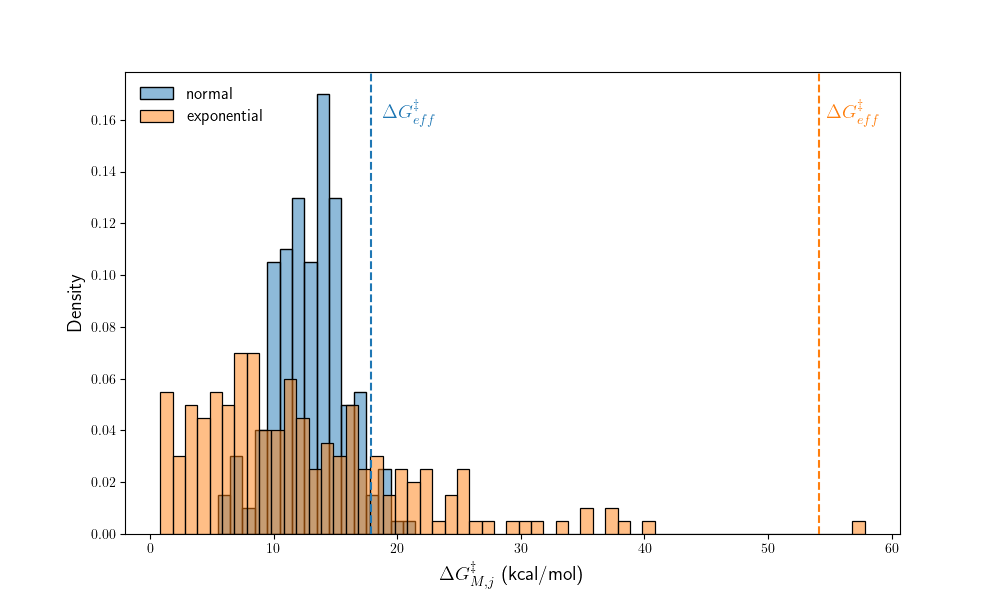
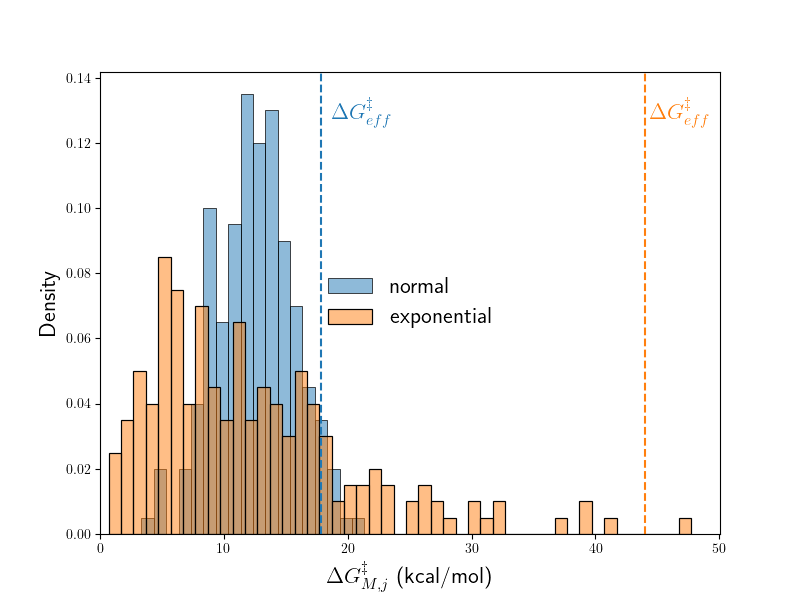
Update Figure 2 with larger font, only one profile

diff --git a/run_analyses.py b/run_analyses.py
@@ -216,7 +216,8 @@ def compare_effective_barriers(dH_barrier, dS_barrier, dH_sigma, dS_sigma, dG_ba
 
     print(f'\nComparing effective barriers for a single path through the membrane...')
 
-    fig, ax1 = plt.subplots(1,2, figsize=(10,5), sharey=True, sharex=True)
+    # fig1, ax1 = plt.subplots(1,2, figsize=(10,5), sharey=True, sharex=True)
+    fig, ax = plt.subplots(1,1, figsize=(8,6))
 
     dist = 'normal'
     params = {'mu'  : np.array([dH_barrier, dS_barrier]),
@@ -226,45 +227,42 @@ def compare_effective_barriers(dH_barrier, dS_barrier, dH_sigma, dS_sigma, dG_ba
     model = Path(T=T, n_jumps=200)
     model.generate_membrane_barriers(dist=dist, multi=multi, dist_params=params)
     dG_eff = model.calculate_effective_barrier()
-    ax = model.plot_distribution(hist=True, color='tab:blue', binwidth=1, label='normal')
+    # ax = model.plot_distribution(hist=True, color='tab:blue', binwidth=1, label='normal')
+    sns.histplot(model.membrane_barriers, color='tab:blue', stat='probability', edgecolor='k', binwidth=1, bins=50, alpha=0.5, ax=ax, label='normal', linewidth=0.5)
     ymin, ymax = plt.ylim()
     ax.axvline(dG_eff, ls='dashed', c='tab:blue')
-    ax.text(dG_eff*1.05, ymax*0.9, '$\Delta G_{eff}^{\ddag}$', color='tab:blue', fontsize=14)
+    ax.text(dG_eff*1.05, ymax*0.9, '$\Delta G_{eff}^{\ddag}$', color='tab:blue', fontsize=16)
 
-    ax1[0].scatter(-T*model.entropic_barriers, model.enthalpic_barriers, edgecolor='k', color='tab:blue')
-    ax1[0].set_xlabel('$-T\Delta S$')
-    ax1[0].set_ylabel('$\Delta H$')
-    ax1[0].legend(['normal'])
+    # ax1[0].scatter(-T*model.entropic_barriers, model.enthalpic_barriers, edgecolor='k', color='tab:blue')
+    # ax1[0].set_xlabel('$-T\Delta S$')
+    # ax1[0].set_ylabel('$\Delta H$')
+    # ax1[0].legend(['normal'])
 
     dist = 'exponential'
     params = {'beta'  : np.array([dH_barrier, dS_barrier])}
     model = Path(T=T)
     model.generate_membrane_barriers(dist=dist, multi=multi, dist_params=params)
     dG_eff = model.calculate_effective_barrier()
-    model.plot_distribution(hist=True, color='tab:orange', binwidth=1, ax=ax, label='exponential')
+    sns.histplot(model.membrane_barriers, color='tab:orange', stat='probability', edgecolor='k', binwidth=1, bins=50, alpha=0.5, ax=ax, label='exponential')
     ymin, ymax = plt.ylim()
     ax.axvline(dG_eff, ls='dashed', c='tab:orange')
-    ax.text(dG_eff*1.01, ymax*0.9, '$\Delta G_{eff}^{\ddag}$', color='tab:orange', fontsize=14)
-
-    ax1[1].scatter(-T*model.entropic_barriers, model.enthalpic_barriers, edgecolor='k', color='tab:orange')
-    ax1[1].set_xlabel('$-T\Delta S$')
-    ax1[1].legend(['exponential'])
+    ax.text(dG_eff*1.01, ymax*0.9, '$\Delta G_{eff}^{\ddag}$', color='tab:orange', fontsize=16)
     
-    # ax.axvline(dG_barrier, c='r')
-    # ax.text(dG_barrier*0.5, ymax*0.9, 'mean', ha='left', fontsize=14)
-    ax.set_xlabel('$\Delta G_{M,j}^{\ddag}$ (kcal/mol)', fontsize=14)
-    ax.set_ylabel('Density', fontsize=14)
-    plt.legend(loc='upper left', frameon=False, fontsize=12, ncol=1)
+    ax.set_xlabel('$\Delta G_{M,j}^{\ddag}$ (kcal/mol)', fontsize=16)
+    ax.set_ylabel('Density', fontsize=16)
+    ax.set_xlim(0,)
+    plt.legend(loc='center', frameon=False, fontsize=16, ncol=1)
     plt.show()
 
-def plot_paths(dH_barrier, dS_barrier, dH_sigma, dS_sigma, T=300, multi=True):
+def plot_paths(n, dH_barrier, dS_barrier, dH_sigma, dS_sigma, T=300, multi=True):
 
-    print(f'\nPlotting 4 realizations of barrier paths through the membrane...')
+    print(f'\nPlotting {n} realizations of barrier paths through the membrane...')
 
-    fig, ax = plt.subplots(4,1, figsize=(10,10), sharex=True, sharey=True)
+    fig, ax = plt.subplots(n,1, figsize=(10,n*2+2.5), sharex=True, sharey=True)
 
-    for i in range(4):
+    for i in range(n):
     
+        # instantiate the model and generate barriers
         dist = 'normal'
         params = {
                 'mu'  : np.array([dH_barrier, dS_barrier]),
@@ -275,17 +273,26 @@ def plot_paths(dH_barrier, dS_barrier, dH_sigma, dS_sigma, T=300, multi=True):
         model.generate_membrane_barriers(dist=dist, multi=multi, dist_params=params)
         dG_eff = model.calculate_effective_barrier()
 
+        # get jumps and barriers for plotting
         jumps = model.jump_lengths.cumsum()
         barriers = model.membrane_barriers
 
+        # create a cubic spline so the barrier profile is smooth
         path_spline = CubicSpline(jumps, barriers, bc_type='natural')
         xs = np.linspace(0, jumps.max(), num=2000)
         ys = path_spline(xs)
 
-        ax[i].plot(xs, ys, color='tab:blue', alpha=1, label='normal')
-        ax[i].axhline(dG_eff, c='tab:blue', ls='dashed')
-        ax[i].text(model.lam, dG_eff*1.2, '$\Delta G_{eff}^{\ddag}$', ha='right', fontsize=12, color='tab:blue')
+        # plot the path
+        if n > 1:
+            ax[i].plot(xs, ys, color='tab:blue', alpha=1, label='normal')
+            ax[i].axhline(dG_eff, c='tab:blue', ls='dashed')
+            ax[i].text(model.lam, dG_eff*1.2, '$\Delta G_{eff}^{\ddag}$', ha='right', fontsize=16, color='tab:blue')
+        else:
+            ax.plot(xs, ys, color='tab:blue', alpha=1, label='normal')
+            ax.axhline(dG_eff, c='tab:blue', ls='dashed')
+            ax.text(model.lam, dG_eff*1.2, '$\Delta G_{eff}^{\ddag}$', ha='right', fontsize=16, color='tab:blue')
 
+        # repeat for exponentially distributed barriers
         dist = 'exponential'
         params = {'beta'  : np.array([dH_barrier, dS_barrier])}
         model = Path(T=T, n_jumps=100)
@@ -299,17 +306,31 @@ def plot_paths(dH_barrier, dS_barrier, dH_sigma, dS_sigma, T=300, multi=True):
         xs = np.linspace(0, jumps.max(), num=2000)
         ys = path_spline(xs)
 
-        ax[i].plot(xs, ys, color='tab:orange', alpha=0.75, label='exponential')
-        ax[i].axhline(dG_eff, c='tab:orange', ls='dashed')
-        ax[i].text(model.lam, dG_eff*1.1, '$\Delta G_{eff}^{\ddag}$', ha='right', fontsize=12, color='tab:orange')
+        if n > 1:
+            ax[i].plot(xs, ys, color='tab:orange', alpha=0.75, label='exponential')
+            ax[i].axhline(dG_eff, c='tab:orange', ls='dashed')
+            ax[i].text(model.lam, dG_eff*0.9, '$\Delta G_{eff}^{\ddag}$', ha='right', fontsize=16, color='tab:orange')
 
-        ax[i].set_ylabel('$\Delta G_{M,j}^{\ddag}$ (kcal/mol)', fontsize=14)
-        ax[i].legend(loc='upper right', fontsize=12, ncol=2,
-                     frameon=False, borderpad=0.2)
-        ax[i].set_ylim(0,dG_eff*1.5)
-    
-    ax[i].set_xlim(-7.5*model.lam,)
-    ax[i].set_xlabel('Transport Coordinate ($\mathrm{\AA}$)', fontsize=14)
+            ax[i].set_ylabel('$\Delta G_{M,j}^{\ddag}$ (kcal/mol)', fontsize=14)
+            ax[i].legend(loc='upper right', fontsize=16, ncol=2,
+                        frameon=False, borderpad=0.2)
+            ax[i].set_ylim(0,dG_eff*1.2)
+        else:
+            ax.plot(xs, ys, color='tab:orange', alpha=0.75, label='exponential')
+            ax.axhline(dG_eff, c='tab:orange', ls='dashed')
+            ax.text(model.lam, dG_eff*0.9, '$\Delta G_{eff}^{\ddag}$', ha='right', fontsize=16, color='tab:orange')
+
+            ax.set_ylabel('$\Delta G_{M,j}^{\ddag}$ (kcal/mol)', fontsize=14)
+            ax.legend(loc='upper right', fontsize=16, ncol=2,
+                        frameon=False, borderpad=0.2)
+            ax.set_ylim(0,dG_eff*1.2)
+
+    if n > 1:
+        ax[i].set_xlim(-9*model.lam,)
+        ax[i].set_xlabel('Transport Coordinate ($\mathrm{\AA}$)', fontsize=16)
+    else:
+        ax.set_xlim(-9*model.lam,)
+        ax.set_xlabel('Transport Coordinate ($\mathrm{\AA}$)', fontsize=16)
     plt.show()
 
 def compare_jump_lengths(dH_barrier, dS_barrier, n_paths, delta=400, T=300, multi=True):
@@ -1077,11 +1098,11 @@ if __name__ == '__main__':
 
     # Choose what analyses to run
 
-    # Figure 2
+    # Figure 2a
     # compare_effective_barriers(dH_barrier, dS_barrier, dH_sigma, dS_sigma, dG_barrier, T=T, multi=multi)
     
-    # Figure 3
-    # plot_paths(dH_barrier, dS_barrier, dH_sigma, dS_sigma, T=T, multi=multi)
+    # Figure 2b
+    plot_paths(1, dH_barrier, dS_barrier, dH_sigma, dS_sigma, T=T, multi=multi)
 
     # Figure 4
     # show_maximums(dH_barrier, dS_barrier, dH_sigma, dS_sigma, T=T, multi=multi)
@@ -1101,7 +1122,7 @@ if __name__ == '__main__':
     #     is_equal = vary_everything(avg_jumps, jump_dist, jump_params, barrier_dist, barrier_params, n_paths=n_paths)
 
     # Figure 8
-    estimate_dH_dS(dH_barrier, dS_barrier, dH_sigma, dS_sigma, n_paths=22000, area=1e8, plot=True)
+    # estimate_dH_dS(dH_barrier, dS_barrier, dH_sigma, dS_sigma, n_paths=22000, area=1e8, plot=True)
     
     # Unused
     # fixed_jump_length(dH_barrier, dS_barrier, n_paths=n_paths, T=T, multi=multi)
